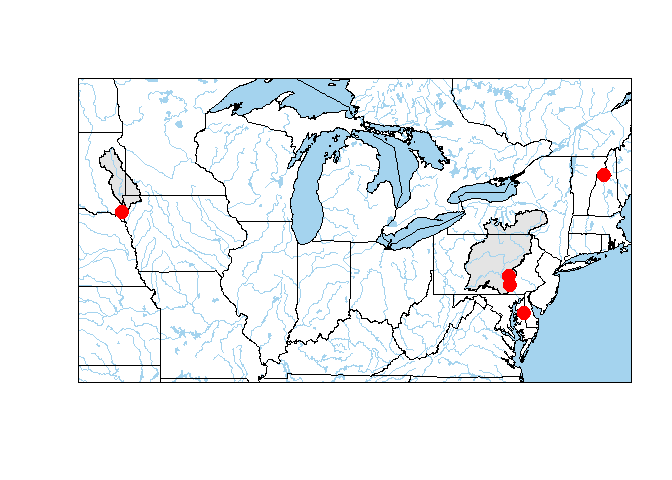
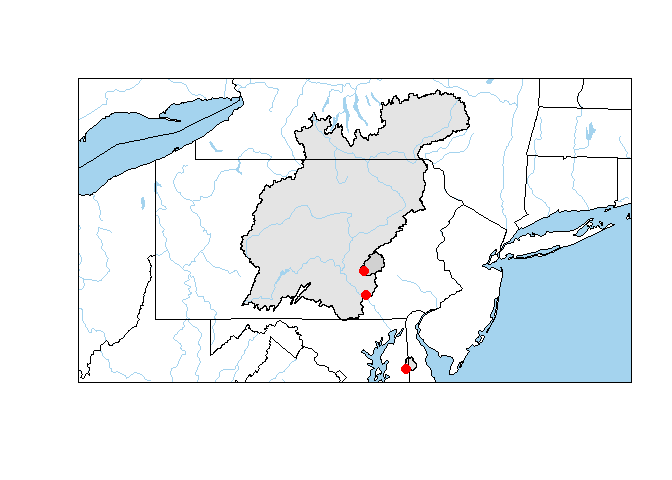
Smaller map

Changed region(s): [[0.0938, 0.1562, 0.9375, 0.8125], [0.8438, 0.1562, 0.875, 0.1875]]

diff --git a/README.md b/README.md
@@ -30,7 +30,7 @@ Sample Workflow
 library(dataRetrieval)
 library(hydroMap)
 
-sites <- c("01137500","01491000", "01573000", "01576000","06485500")
+sites <- c("01491000", "01573000", "01576000")
 
 siteInfo <- readNWISsite(sites)
 # png("test.png",width=11,height=8,units="in",res=600,pointsize=4)
@@ -38,12 +38,12 @@ plotWSB(sites)
 ```
 
     ## OGR data source with driver: ESRI Shapefile 
-    ## Source: "C:\Users\ldecicco\AppData\Local\Temp\1\RtmpIhgwsK", layer: "epa_basins"
-    ## with 5 features
+    ## Source: "C:\Users\ldecicco\AppData\Local\Temp\1\Rtmpie1hQ8", layer: "epa_basins"
+    ## with 3 features
     ## It has 4 fields
 
 ``` r
-points(siteInfo$dec_long_va, siteInfo$dec_lat_va, pch=20, col="red", cex=3)
+points(siteInfo$dec_long_va, siteInfo$dec_lat_va, pch=20, col="red", cex=2)
 ```
 
 ![](README_files/figure-markdown_github/unnamed-chunk-3-1.png)
